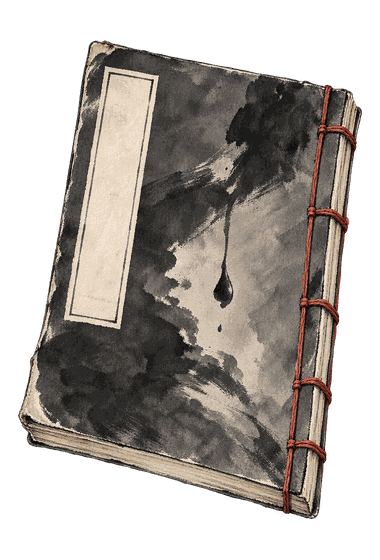
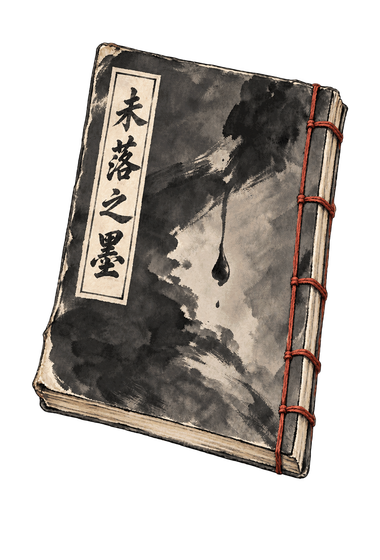
Item art: recovered pack (67 of 79) applied: four book covers now carry their titles, plus the zhuge crossbow and the fishbone spear; 12 items still missing

diff --git a/docs/system_menu/item_art_batches/Recovered67/README.md b/docs/system_menu/item_art_batches/Recovered67/README.md
@@ -1,0 +1,7 @@
+# 語破江湖道具素材救回版（含四本書題字）
+
+本包不是79件完整包。原完整壓縮檔本身已截斷，已救回並逐張驗證67件／134張PNG；另外12件／24張缺檔列於 missing_files.json。不得將缺檔誤認為本次已交付。
+
+四本書已補上直排正式書名：燈後微聲、簷聲未盡、未落之墨、字外有息。使用內建圖像編修，在原書封題籤補上對應繁體書名，保留水墨古籍風格與透明背景。大圖380×560，圖示80×80；同名檔可替換。
+
+所有PNG已檢查可解碼、尺寸與透明Alpha，每張低於250000 bytes。asset_check.json 提供SHA256。其餘救回圖檔保留原始位元組；四本書另行更新。
